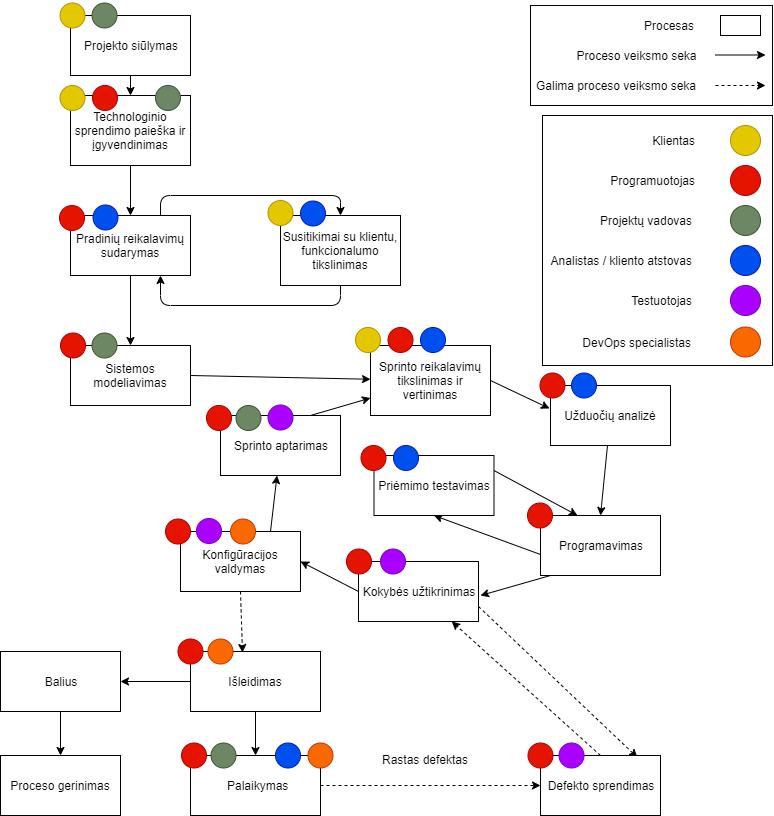
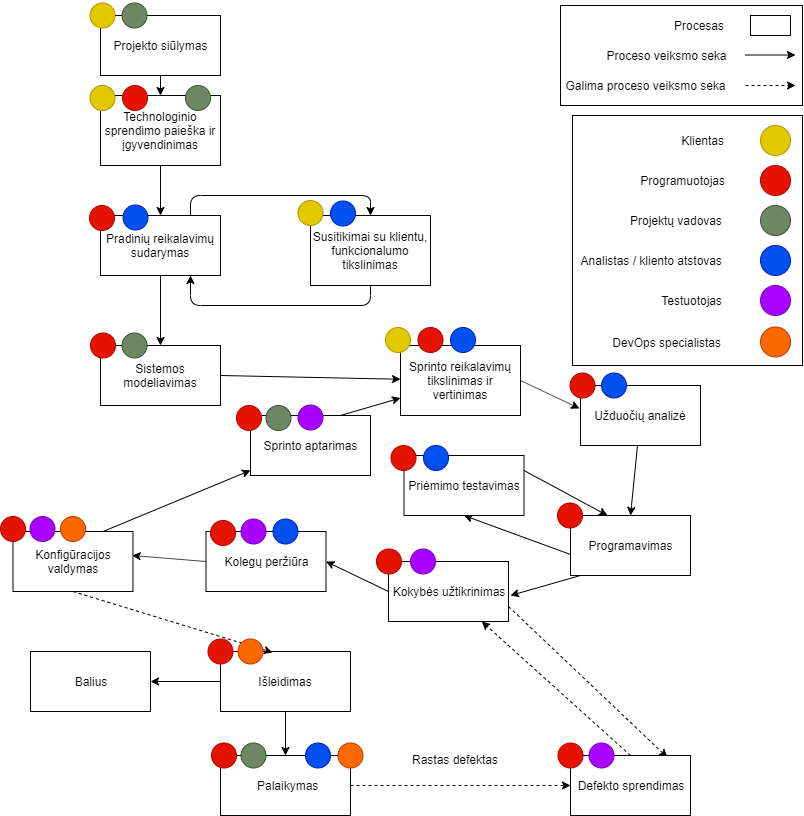
rfasf

diff --git a/lab3/PKP-Lab2.tex b/lab3/PKP-Lab2.tex
@@ -329,13 +329,15 @@
 				                      & \textcolor{black}{V2 - Rašomi integraciniai testai.}                    \\
 				                      & \textcolor{black}{V3 - Rašomi automatizuojami testai.}                  \\
 				                      & \textcolor{black}{V4 - Vykdomas regresinis testavimas.}                 \\
-				                      & \textcolor{black}{V5 - Testų klaidų analizė ir defektų aprašymas.}      \\ \hline
+				                      & \textcolor{black}{V5 - Testų klaidų analizė ir defektų aprašymas.}      \\ 
+						      & \textcolor{blue}{V6 - Pasiruošimas kolegų peržiūrai}\\	 \hline
 				Naudojami produktai:  & \textcolor{black}{NP1 - Užduočių sąrašas.}                              \\
 				                      & \textcolor{black}{NP2 - Testai regresiniam testavimui.}                 \\ \hline
 				Sukuriami produktai:  & \textcolor{black}{SP1 - Nauji defektai.}                                \\
 				                      & \textcolor{black}{SP2 - Testų rezultatų dokumentas.}                    \\
 				                      & \textcolor{black}{SP3 - Papildytas naujais defektais užduočių sąrašas.} \\
-				                      & \textcolor{black}{SP4 - Vartotojo dokumentacija.}                       \\ \hline
+				                      & \textcolor{black}{SP4 - Vartotojo dokumentacija.}                       \\ 
+						      & \textcolor{blue}{SP5 - Kolegų peržiūros planas}\\ \hline
 			\end{tabular}
 		\end{table}
 	\end{center}
@@ -353,7 +355,15 @@ Atlikus testavimus, jei vartotojo dokumentacija dar neparašyta vartotojo dokume
 	Kiekvienas programuotojas yra atsakingas už kitų savo rato programuotojų kodo peržiūrą (angl. Pull Request review) prieš jo kėlimą į aukštesnes aplinkas.
 	Taip išvengiama kartais net labai sunkių klaidų dėl vieno ar kelių žmonių apsižiūrėjimo.
 	Tuo pačiu išvengiama nedarbingo laiko, kuris atsirado dėl kitų programos dalių sulaužančio kodo įdėjimo į pagrindinę ''master'' kodo bazę.
+
+	\textcolor{blue}{Kolegų peržiūros veikloje yra paskiriamas laikas kada bus atliktiekama kolegų peržiūra.
+				Paskiriami žmonės kurie turės dalyvauti kolegų peržiūroje ir jie būna informuojami.
+				Surašomas sąrašas pakeitimų, kurie bus apžvelgiami.
+				Nusprendžiama kiek kolegų turės patvirtinti pakeitimą, kad jį būtų galima išleisti į aukštesnio lygio aplinką.
+				Viskas surašoma į kolegų peržiūros dokumentą.}
+
 	\newpage
+	\subsubsection{Kolegų peržiūra}
 	\subsubsection{Konfigūracijos valdymas}
 	\begin{center}
 		\begin{table}[ht]
